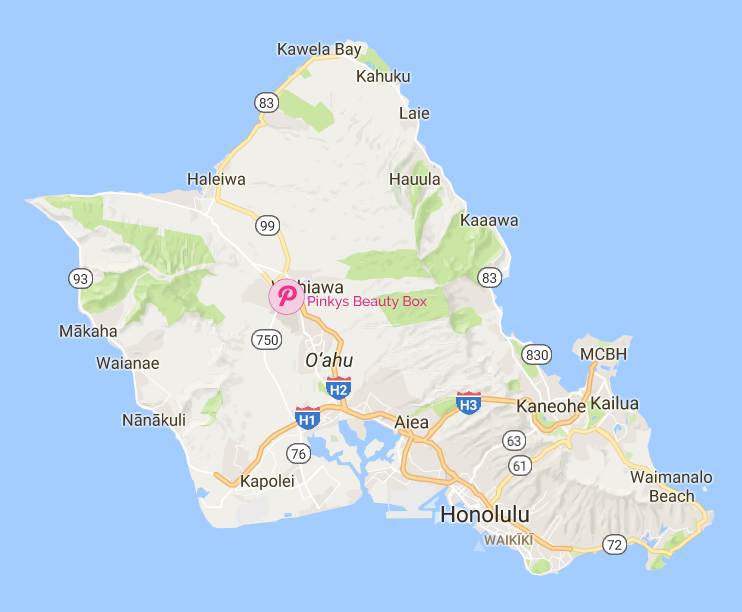
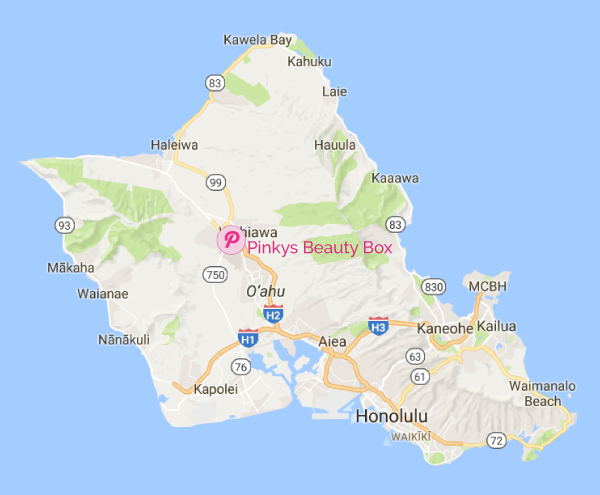
adjust map size

diff --git a/skin/frontend/pinkys/default/scss/core/_common.scss b/skin/frontend/pinkys/default/scss/core/_common.scss
@@ -790,7 +790,7 @@ a.button:hover {
         margin-left: 0px;
     }
     @media only screen and (max-width: $bp-small +1) {
-        width: 370px; 
+        width: 350px; 
     }
     
 }

diff --git a/skin/frontend/pinkys/default/css/styles-ie8.css b/skin/frontend/pinkys/default/css/styles-ie8.css
@@ -1223,7 +1223,7 @@ a.button:hover {
 }
 @media only screen and (max-width: 600px) {
   .before-footer .map {
-    width: 370px;
+    width: 350px;
   }
 }
 

diff --git a/skin/frontend/pinkys/default/css/styles.css b/skin/frontend/pinkys/default/css/styles.css
@@ -1385,7 +1385,7 @@ a.button:hover {
 }
 @media only screen and (max-width: 600px) {
   .before-footer .map {
-    width: 370px;
+    width: 350px;
   }
 }
 
